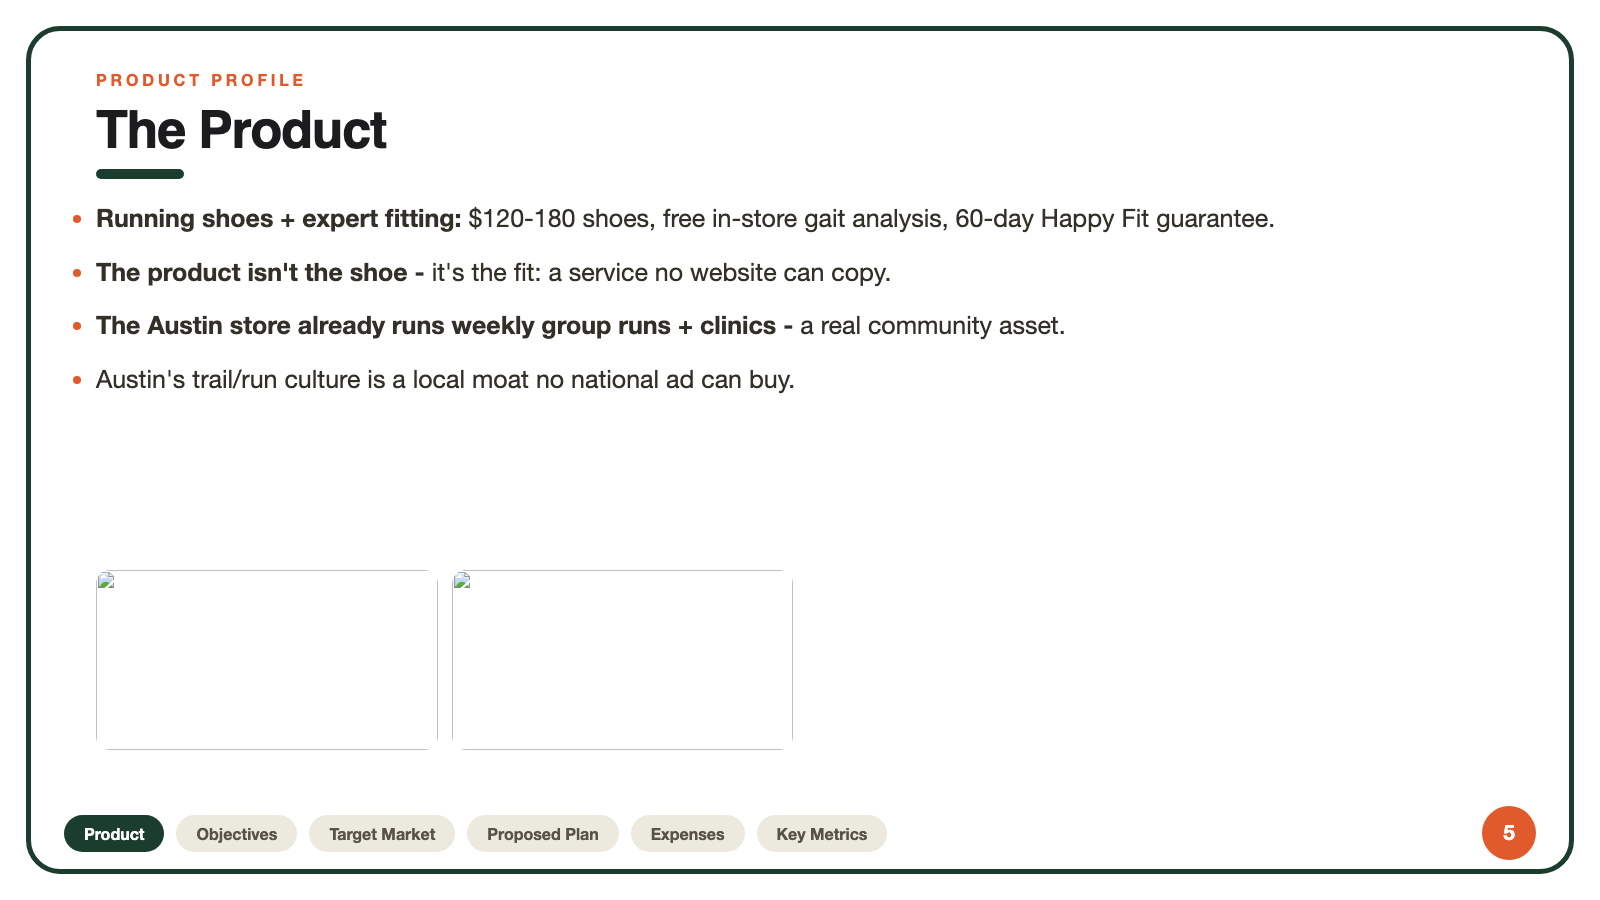
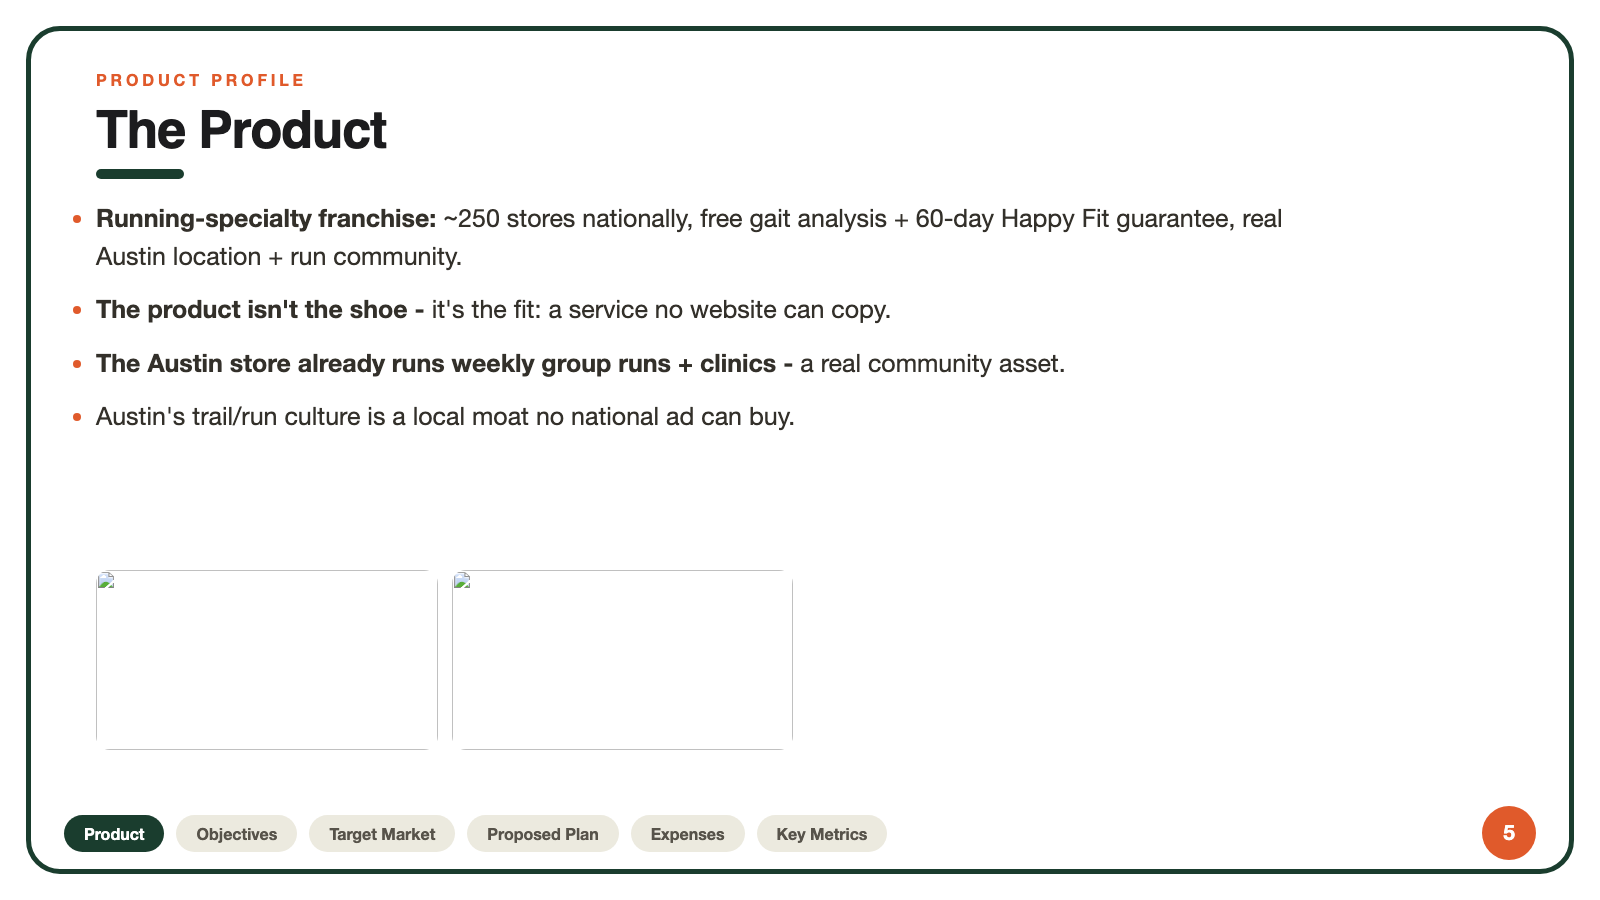
v25 final: why-now hook (resolution season), dead image refs cleared, store facts

Changed region(s): [[0.0625, 0.2178, 0.8125, 0.4978]]

diff --git a/pipeline/runs/v25/imcp/p05.html b/pipeline/runs/v25/imcp/p05.html
@@ -68,4 +68,4 @@ img.vis{max-width:100%;max-height:560px;border-radius:16px;object-fit:contain;bo
 .tag{display:inline-block;background:var(--brand);color:#fff;border-radius:999px;padding:5px 14px;font-size:14px;font-weight:800;letter-spacing:.06em}
 .mono{font-family:'SF Mono',Menlo,monospace}
 </style></head>
-<body class="style-editorial"><div class="page" style="background:#ffffff"><div class="frame"></div><div class="kick">PRODUCT PROFILE</div><div class="h1">The Product</div><div class="tbar"></div><div class="body" style="font-size:25px;max-width:1200px"><li class=""><b>Running shoes + expert fitting:</b> $120-180 shoes, free in-store gait analysis, 60-day Happy Fit guarantee.</li><li class=""><b>The product isn&#x27;t the shoe -</b> it&#x27;s the fit: a service no website can copy.</li><li class=""><b>The Austin store already runs weekly group runs + clinics -</b> a real community asset.</li><li class="">Austin&#x27;s trail/run culture is a local moat no national ad can buy.</li></div><div style="display:grid;grid-template-columns:repeat(4,1fr);gap:14px;margin-top:auto"><img src="file:///Users/pranav/Desktop/DevinProjects/imcp-product-finder/pipeline/runs/v25/webimg/hero.jpg" style="width:100%;height:180px;object-fit:cover;border-radius:14px"><img src="file:///Users/pranav/Desktop/DevinProjects/imcp-product-finder/pipeline/runs/v25/webimg/tech.jpg" style="width:100%;height:180px;object-fit:cover;border-radius:14px"></div><div class="navbar"><div class="navpills"><span class="navp on">Product</span><span class="navp">Objectives</span><span class="navp">Target Market</span><span class="navp">Proposed Plan</span><span class="navp">Expenses</span><span class="navp">Key Metrics</span></div><div class="pgcirc">5</div></div></div></body></html>
+<body class="style-editorial"><div class="page" style="background:#ffffff"><div class="frame"></div><div class="kick">PRODUCT PROFILE</div><div class="h1">The Product</div><div class="tbar"></div><div class="body" style="font-size:25px;max-width:1200px"><li class=""><b>Running-specialty franchise:</b> ~250 stores nationally, free gait analysis + 60-day Happy Fit guarantee, real Austin location + run community.</li><li class=""><b>The product isn&#x27;t the shoe -</b> it&#x27;s the fit: a service no website can copy.</li><li class=""><b>The Austin store already runs weekly group runs + clinics -</b> a real community asset.</li><li class="">Austin&#x27;s trail/run culture is a local moat no national ad can buy.</li></div><div style="display:grid;grid-template-columns:repeat(4,1fr);gap:14px;margin-top:auto"><img src="file:///Users/pranav/Desktop/DevinProjects/imcp-product-finder/pipeline/runs/v25/webimg/hero.jpg" style="width:100%;height:180px;object-fit:cover;border-radius:14px"><img src="file:///Users/pranav/Desktop/DevinProjects/imcp-product-finder/pipeline/runs/v25/webimg/tech.jpg" style="width:100%;height:180px;object-fit:cover;border-radius:14px"></div><div class="navbar"><div class="navpills"><span class="navp on">Product</span><span class="navp">Objectives</span><span class="navp">Target Market</span><span class="navp">Proposed Plan</span><span class="navp">Expenses</span><span class="navp">Key Metrics</span></div><div class="pgcirc">5</div></div></div></body></html>
